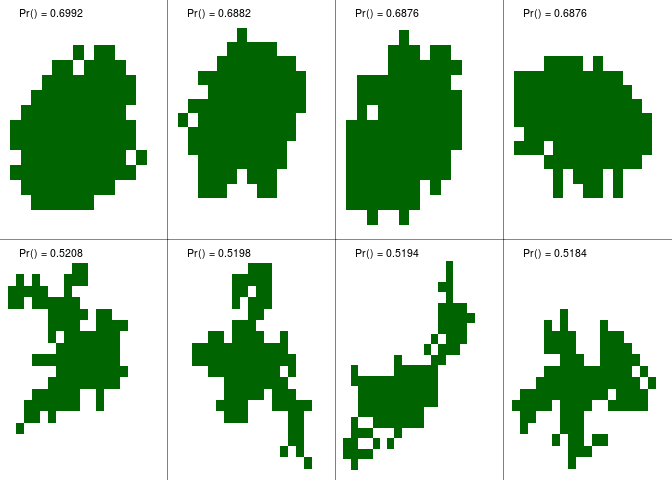
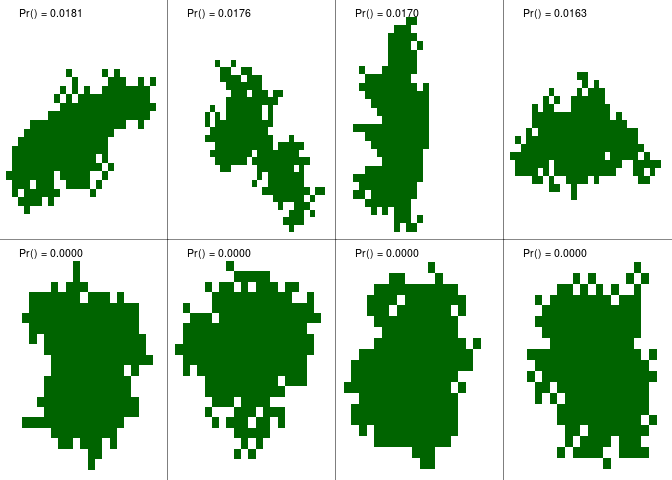
Playing with the parameters

diff --git a/src/grasshopper.cpp b/src/grasshopper.cpp
@@ -141,7 +141,7 @@ double grasshopper_stat(
 ) {
 
   // Getting the positions
-  IntegerVector p = sample(positions.nrow() - 1u, nsim, true);
+  IntegerVector p = sample(positions.nrow(), nsim, true) - 1;
 
   double prob = 0.0;
   NumericVector pos(2);

diff --git a/README.md b/README.md
@@ -15,7 +15,7 @@ library(grasshopper)
 
 # Simulating a patch of grass
 set.seed(111)
-x <- grasshopper:::sim_grass_joint(area = 500)
+x <- grasshopper:::sim_grass_joint(area = 700)
 image(x$grass, col = c("white", "darkgreen"))
 ```
 
@@ -23,9 +23,12 @@ image(x$grass, col = c("white", "darkgreen"))
 
 ``` r
 ans <- grasshopper(
+  xmax = 200,
+  ymax = 200,
+  area = 200, len = 20,
   nsim = 1e4, # number of grass simulations
-  subsim = 5e3, # number of times that we make the bug jump in each sim
-  ncpus = 4
+  subsim = 1e4, # number of times that we make the bug jump in each sim
+  ncpus = 4, ring = .99
   )
 
 # Plotting the best and the worse
